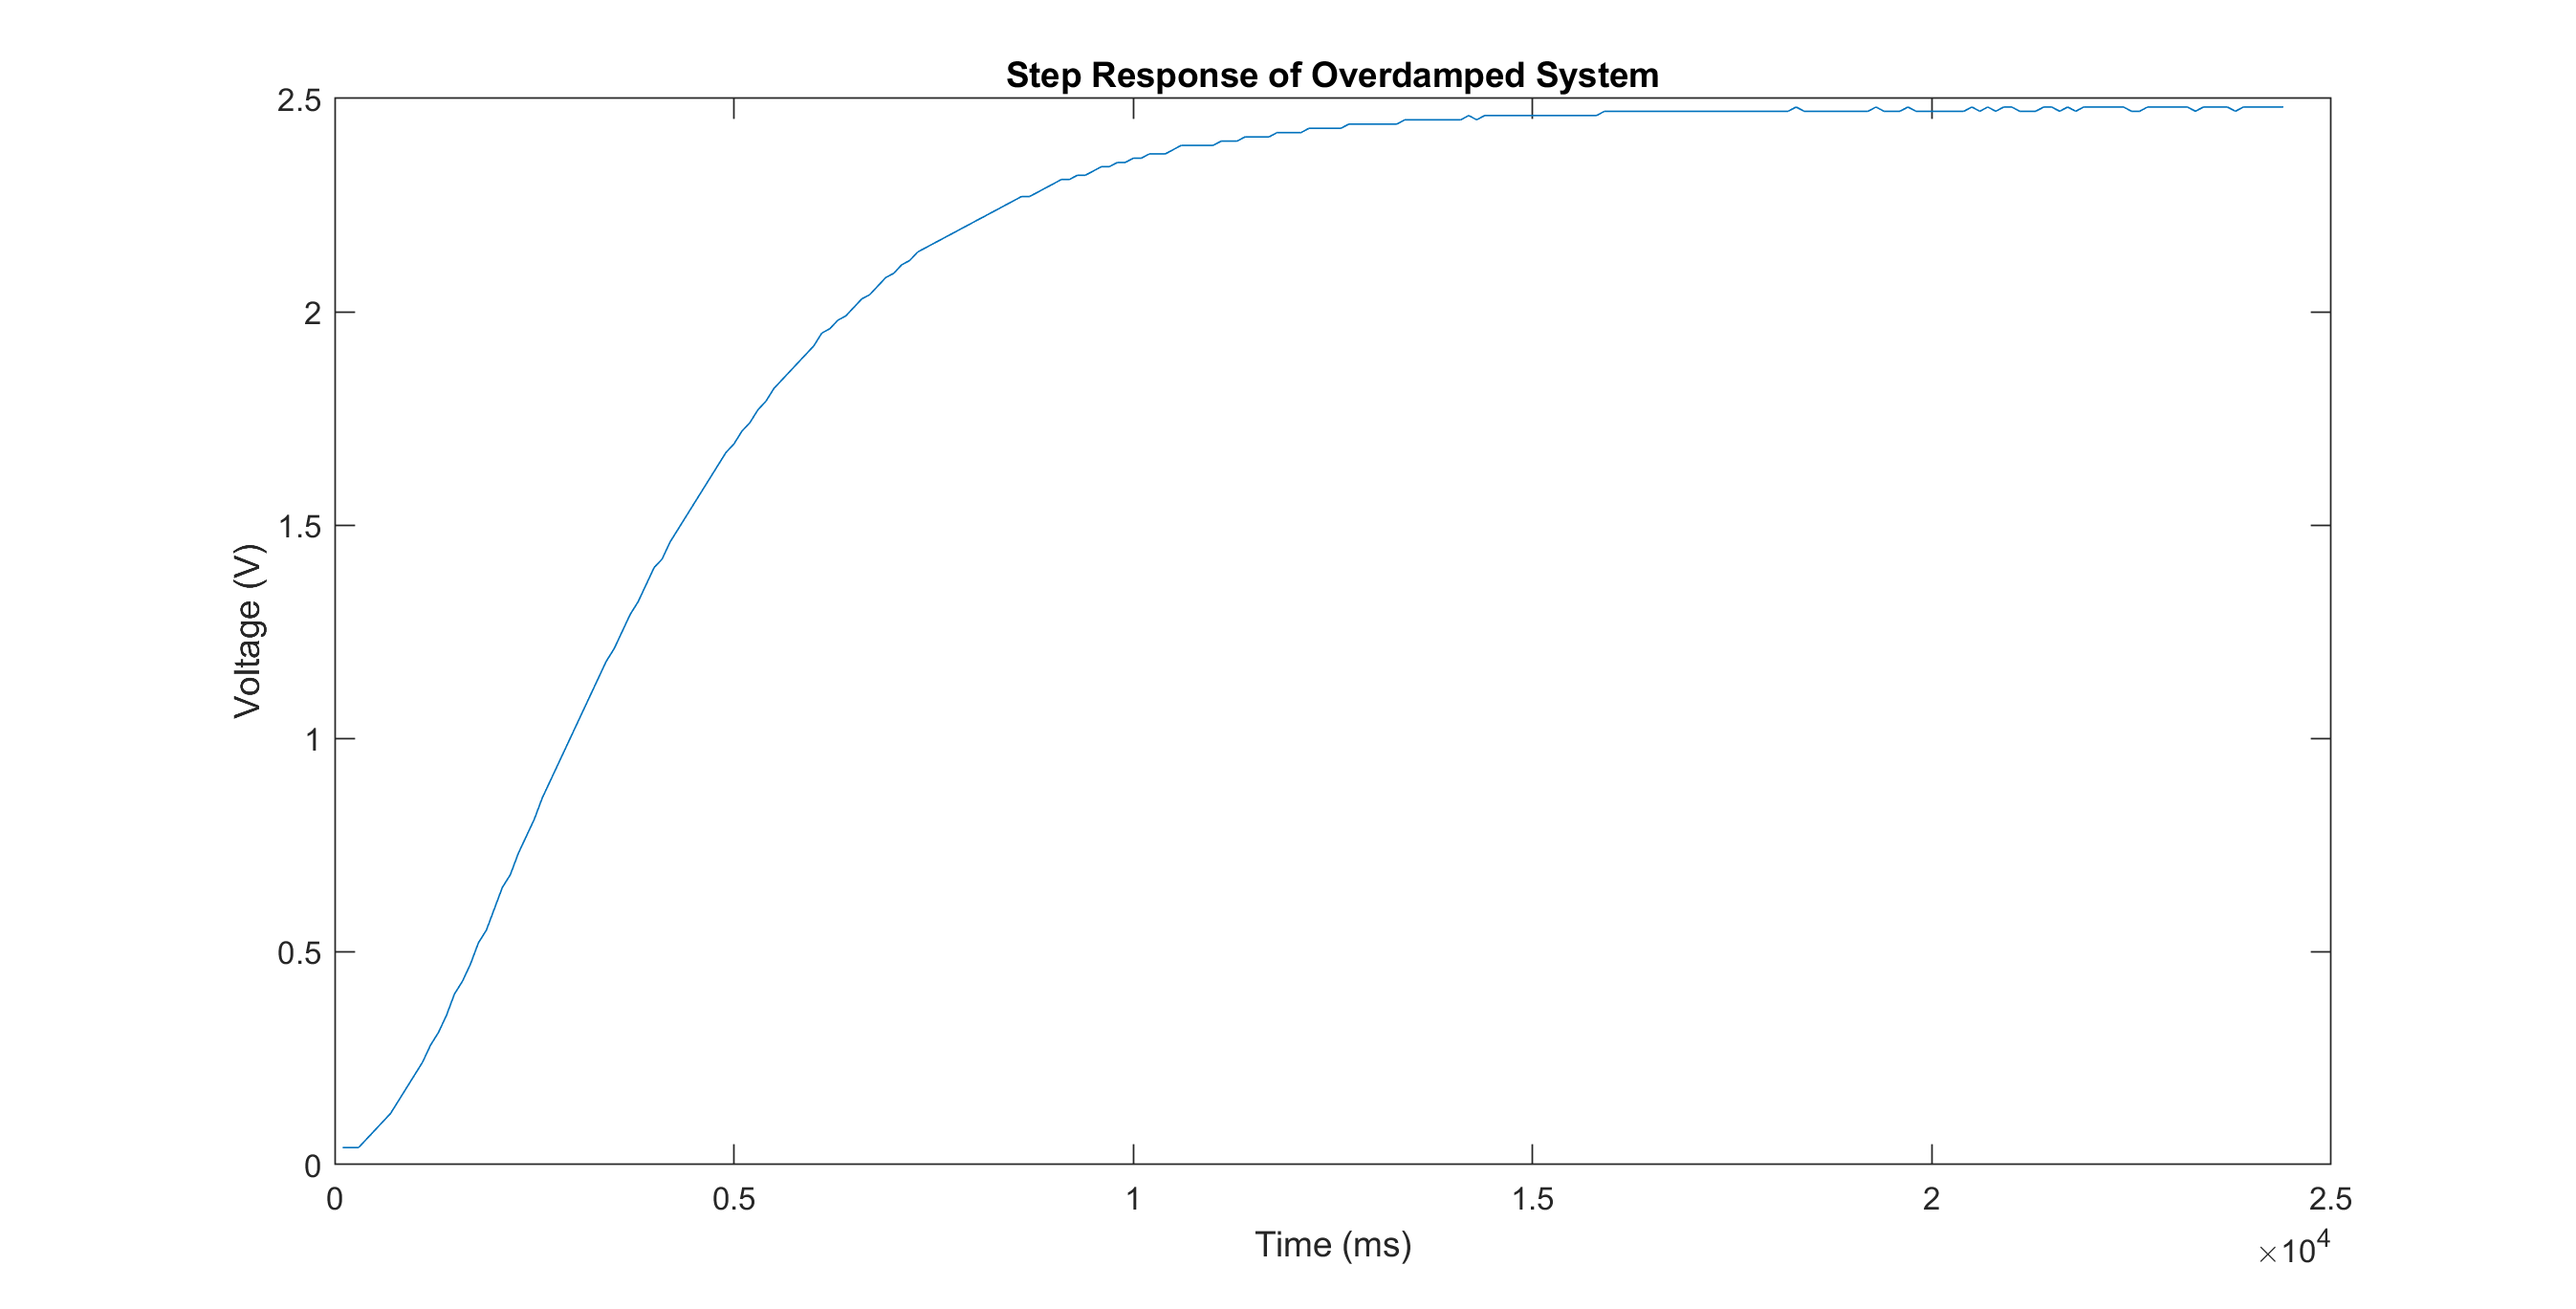
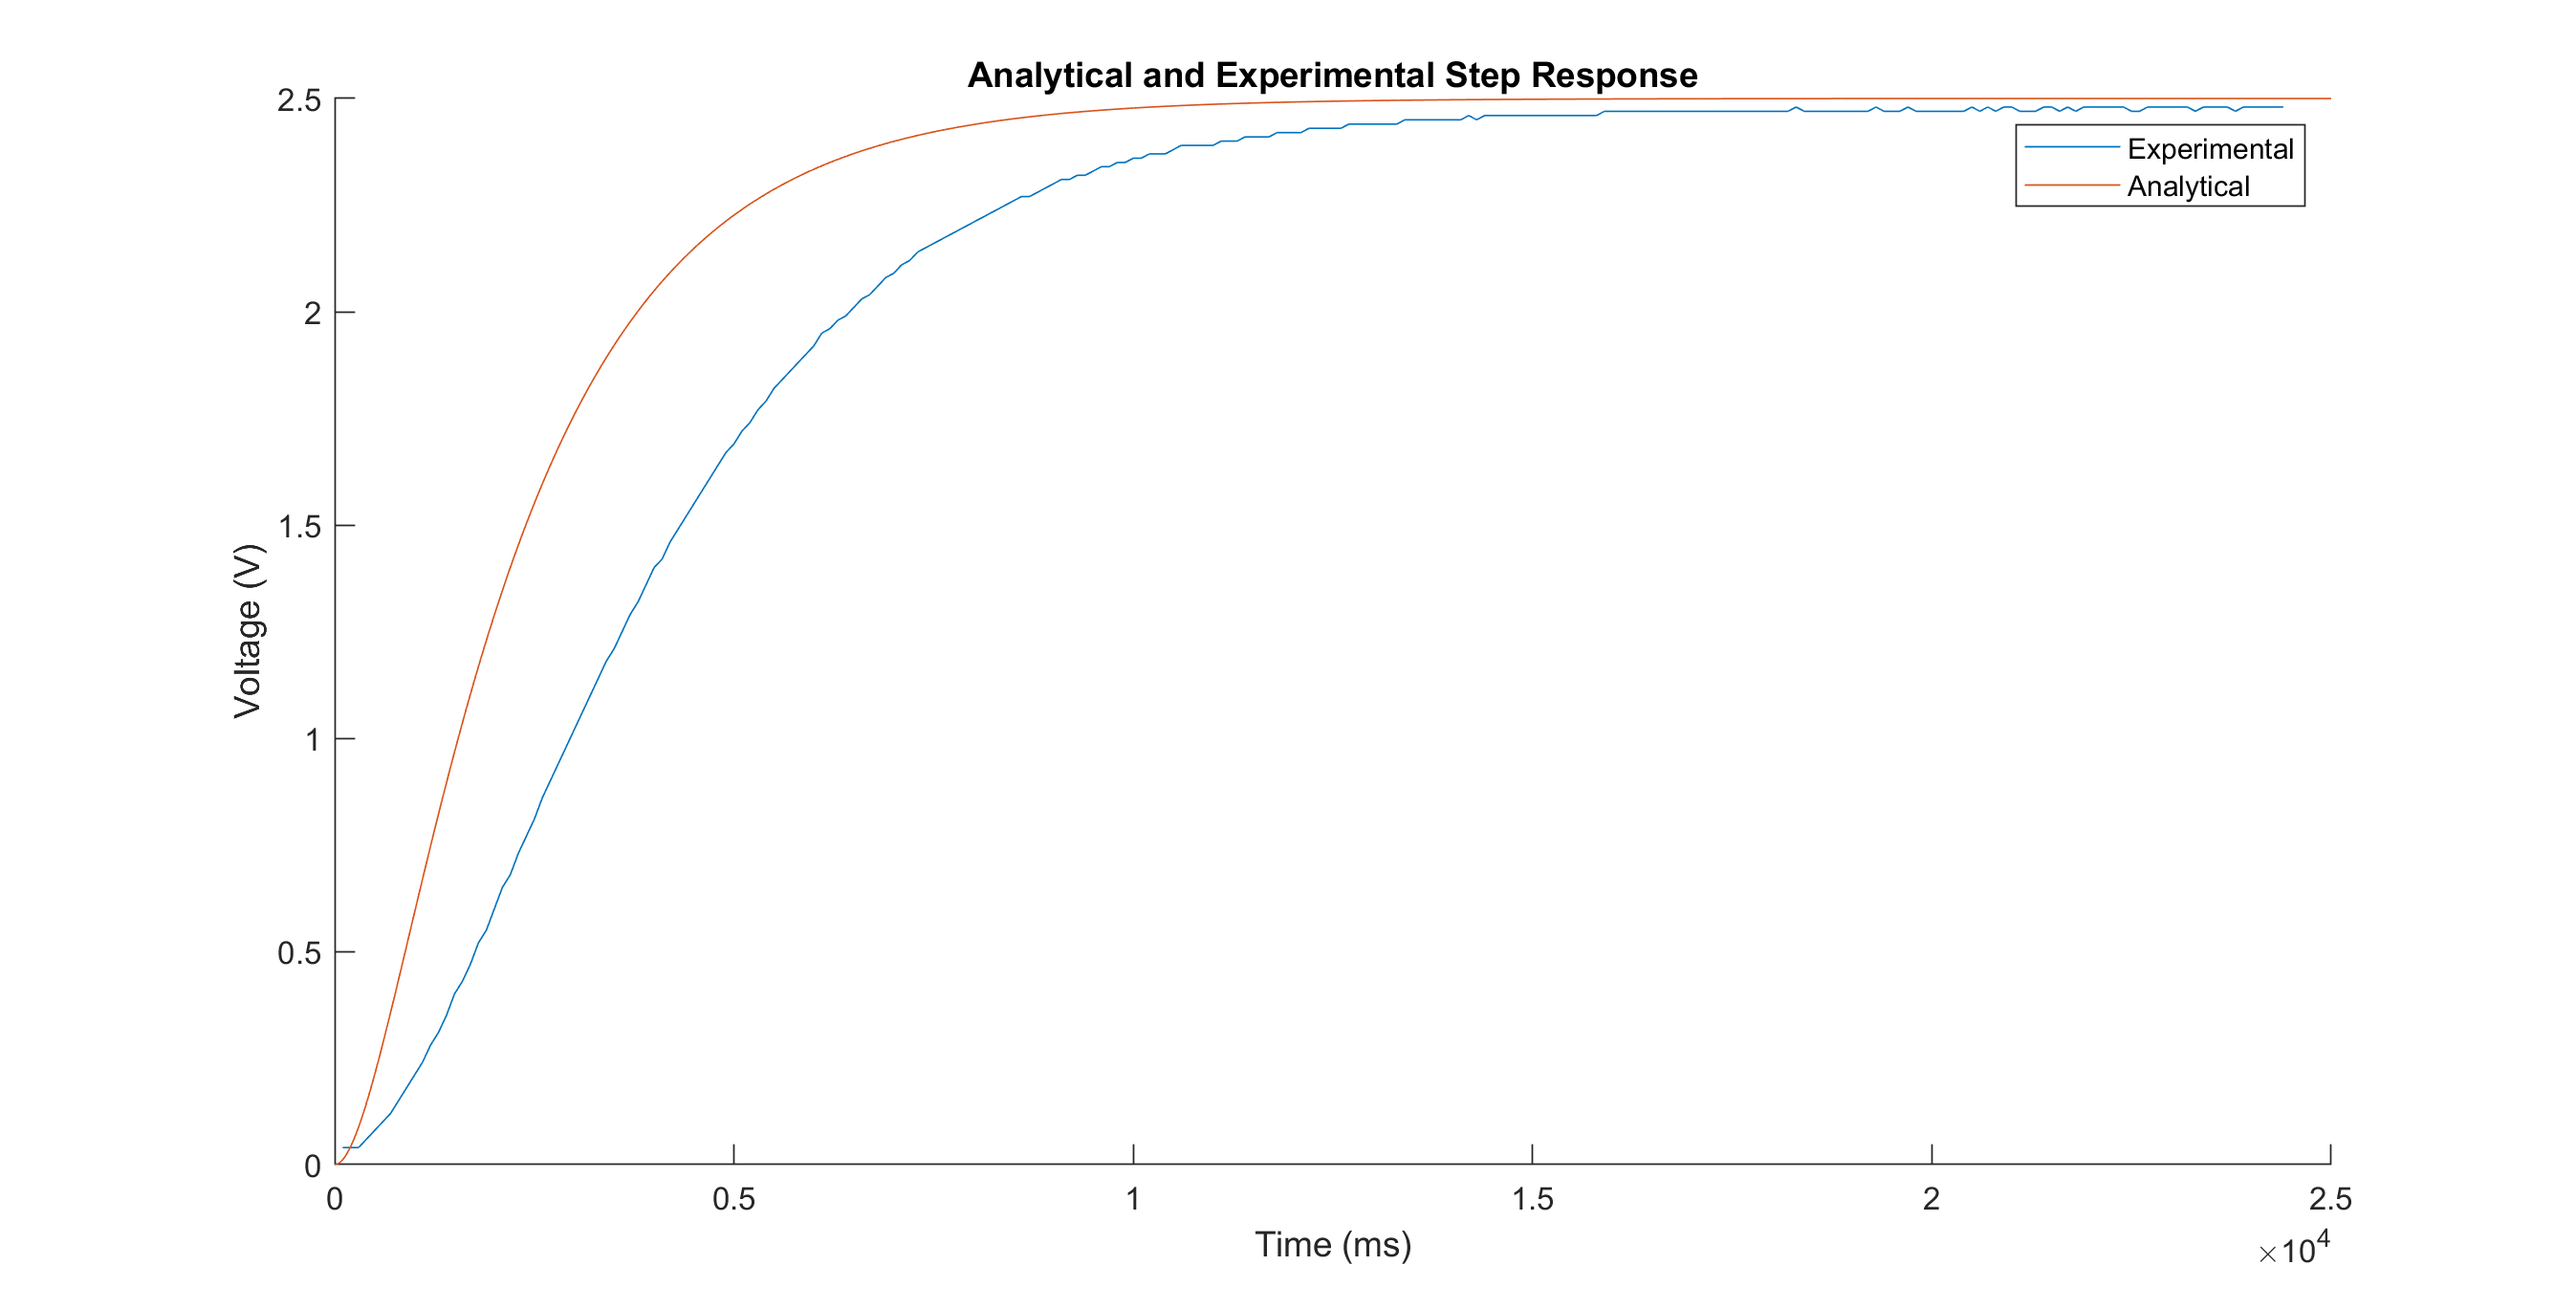
experimental and analytical plot

Changed region(s): [[0.3742, 0.0307, 0.6548, 0.092], [0.7795, 0.092, 0.9042, 0.1534]]

diff --git a/Matlab/step_response_plot.m b/Matlab/step_response_plot.m
@@ -9,16 +9,26 @@ clear
 clc 
 close all
 
-% 
-
 % Load the data from csv
 data = readtable('step_response.csv');
 time  = data.Time*100;
 voltage = data.Value;
 
+% Define the transfer function
+sys = tf([1],[1 2.5 1]);
+
+% Analytical step response
+t = (0:0.01:25);
+[y,t] = step(sys, t);
+t = t*10^3;
+y = y*2.5;
+
 % Plot the step response
+hold on
 plot(time, voltage)
+plot(t, y)
 xlabel('Time (ms)')
 ylabel('Voltage (V)')
-title('Step Response of Overdamped System')
+title('Analytical and Experimental Step Response')
+legend('Experimental', 'Analytical')
 
